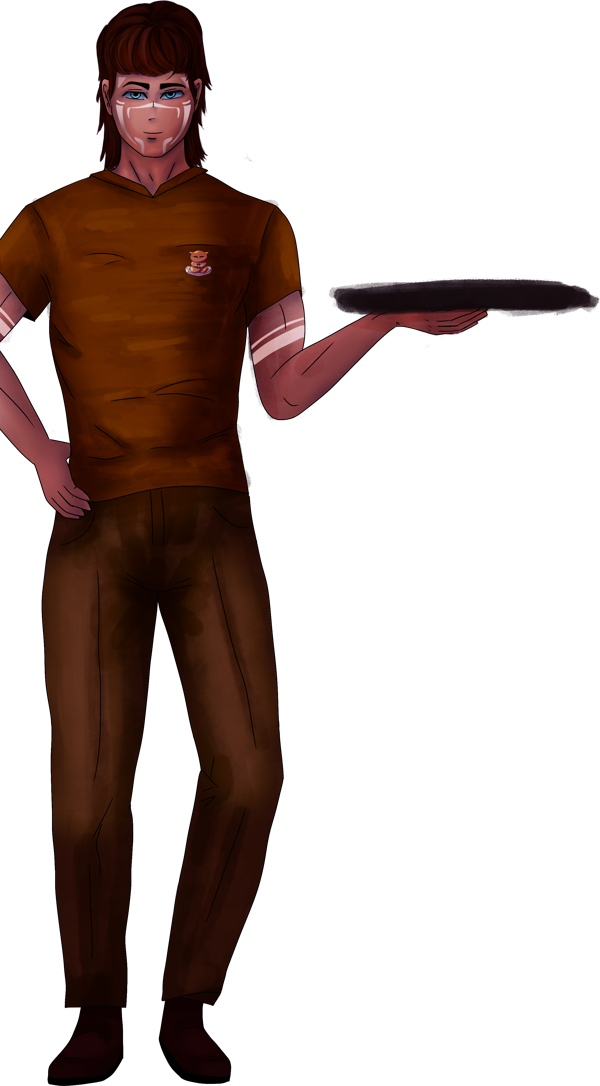
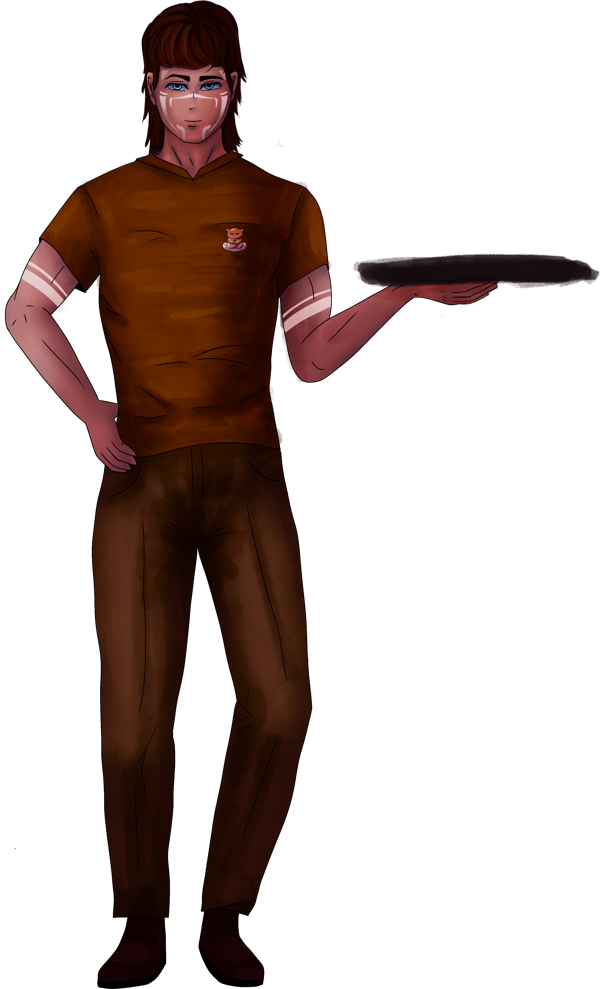
Use the user's clean manual crop for the player VN portrait
Characteronly.png is a fresh, properly-cropped source (no chibi, full
arm+tray, tight bounds) the user made directly — processed the same
way as before (tight alpha bbox + downscale) into player_fullbody.png.
Recomputed the portrait box to the new aspect ratio (383x632 instead
of 349x632) so it still fits edge-to-edge with no clipping or slack.

Also finishes the cleanup from last commit: removed the now-unused
bust placeholder (npc_guard_portrait.png) and simplified its generator
script to only produce the full-body version.

Changed region(s): [[0.0, 0.0, 0.72, 1.0], [0.72, 0.273, 0.87, 0.3337]]

diff --git a/Tools/generate_npc_portrait.py b/Tools/generate_npc_portrait.py
@@ -1,74 +1,53 @@
-"""Placeholder bust portrait for the Guard NPC, until real character art exists.
+"""Placeholder full-body portrait for the Guard NPC, until real character art exists.
 Run with: python3 Tools/generate_npc_portrait.py
 """
 from PIL import Image, ImageDraw
 import os
 
 ROOT = os.path.dirname(os.path.dirname(os.path.abspath(__file__)))
-OUT = os.path.join(ROOT, "Assets", "Portraits", "npc_guard_portrait.png")
-
-def build(w, h, full_body):
-    img = Image.new("RGBA", (w, h), (0, 0, 0, 0))
-    d = ImageDraw.Draw(img)
-    scale = w / 500.0
-
-    def sx(v):
-        return v * scale
-
-    def sy(v):
-        return v * scale
-
-    # Helmet dome
-    d.ellipse([sx(120), sy(40), sx(380), sy(300)], fill=(150, 140, 125, 255), outline=(70, 62, 52, 255), width=max(2, int(6 * scale)))
-
-    # Visor
-    d.rounded_rectangle([sx(150), sy(140), sx(350), sy(200)], radius=sx(18), fill=(30, 20, 18, 255))
-    d.rounded_rectangle([sx(160), sy(148), sx(340), sy(180)], radius=sx(12), fill=(200, 90, 40, 230))
-    d.rectangle([sx(165), sy(158), sx(335), sy(170)], fill=(255, 150, 80, 255))
-
-    # Helmet side vents
-    d.rounded_rectangle([sx(120), sy(170), sx(150), sy(230)], radius=sx(8), fill=(90, 82, 70, 255))
-    d.rounded_rectangle([sx(350), sy(170), sx(380), sy(230)], radius=sx(8), fill=(90, 82, 70, 255))
-
-    # Neck — bridges the helmet base straight down, no gap
-    d.rectangle([sx(205), sy(260), sx(295), sy(360)], fill=(120, 100, 80, 255))
-
-    if not full_body:
-        d.rounded_rectangle([sx(50), sy(330), sx(450), sy(h / scale)], radius=sx(30), fill=(58, 52, 46, 255))
-        d.rounded_rectangle([sx(50), sy(330), sx(450), sy(380)], radius=sx(20), fill=(78, 70, 60, 255))
-        d.rounded_rectangle([sx(225), sy(420), sx(275), sy(460)], radius=sx(6), fill=(200, 90, 40, 255))
-        img.save(OUT)
-        print("saved", OUT, img.size)
-        return
-
-    # --- Full body below the shoulders ---
-    # Arms hanging at the sides
-    d.rounded_rectangle([sx(30), sy(340), sx(95), sy(620)], radius=sx(20), fill=(70, 62, 52, 255))
-    d.rounded_rectangle([sx(405), sy(340), sx(470), sy(620)], radius=sx(20), fill=(70, 62, 52, 255))
-    d.rounded_rectangle([sx(35), sy(590), sx(90), sy(640)], radius=sx(14), fill=(120, 100, 80, 255))
-    d.rounded_rectangle([sx(410), sy(590), sx(465), sy(640)], radius=sx(14), fill=(120, 100, 80, 255))
-
-    # Torso / jacket
-    d.rounded_rectangle([sx(100), sy(330), sx(400), sy(660)], radius=sx(30), fill=(58, 52, 46, 255))
-    d.rounded_rectangle([sx(100), sy(330), sx(400), sy(380)], radius=sx(20), fill=(78, 70, 60, 255))
-    d.rounded_rectangle([sx(225), sy(470), sx(275), sy(510)], radius=sx(6), fill=(200, 90, 40, 255))
-
-    # Belt
-    d.rectangle([sx(100), sy(640), sx(400), sy(670)], fill=(40, 34, 28, 255))
-    d.rectangle([sx(225), sy(645), sx(275), sy(665)], fill=(200, 90, 40, 255))
-
-    # Legs
-    d.rounded_rectangle([sx(130), sy(660), sx(240), sy(940)], radius=sx(10), fill=(46, 42, 38, 255))
-    d.rounded_rectangle([sx(260), sy(660), sx(370), sy(940)], radius=sx(10), fill=(46, 42, 38, 255))
-
-    # Boots
-    d.rounded_rectangle([sx(120), sy(920), sx(245), sy(985)], radius=sx(10), fill=(30, 26, 22, 255))
-    d.rounded_rectangle([sx(255), sy(920), sx(380), sy(985)], radius=sx(10), fill=(30, 26, 22, 255))
-
-    img.save(OUT)
-    print("saved", OUT, img.size)
-
-
-build(500, 620, full_body=False)
 OUT = os.path.join(ROOT, "Assets", "Portraits", "npc_guard_fullbody.png")
-build(500, 1000, full_body=True)
+
+W, H = 500, 1000
+img = Image.new("RGBA", (W, H), (0, 0, 0, 0))
+d = ImageDraw.Draw(img)
+
+# Helmet dome
+d.ellipse([120, 40, 380, 300], fill=(150, 140, 125, 255), outline=(70, 62, 52, 255), width=6)
+
+# Visor
+d.rounded_rectangle([150, 140, 350, 200], radius=18, fill=(30, 20, 18, 255))
+d.rounded_rectangle([160, 148, 340, 180], radius=12, fill=(200, 90, 40, 230))
+d.rectangle([165, 158, 335, 170], fill=(255, 150, 80, 255))
+
+# Helmet side vents
+d.rounded_rectangle([120, 170, 150, 230], radius=8, fill=(90, 82, 70, 255))
+d.rounded_rectangle([350, 170, 380, 230], radius=8, fill=(90, 82, 70, 255))
+
+# Neck — bridges the helmet base straight down, no gap
+d.rectangle([205, 260, 295, 360], fill=(120, 100, 80, 255))
+
+# Arms hanging at the sides
+d.rounded_rectangle([30, 340, 95, 620], radius=20, fill=(70, 62, 52, 255))
+d.rounded_rectangle([405, 340, 470, 620], radius=20, fill=(70, 62, 52, 255))
+d.rounded_rectangle([35, 590, 90, 640], radius=14, fill=(120, 100, 80, 255))
+d.rounded_rectangle([410, 590, 465, 640], radius=14, fill=(120, 100, 80, 255))
+
+# Torso / jacket
+d.rounded_rectangle([100, 330, 400, 660], radius=30, fill=(58, 52, 46, 255))
+d.rounded_rectangle([100, 330, 400, 380], radius=20, fill=(78, 70, 60, 255))
+d.rounded_rectangle([225, 470, 275, 510], radius=6, fill=(200, 90, 40, 255))
+
+# Belt
+d.rectangle([100, 640, 400, 670], fill=(40, 34, 28, 255))
+d.rectangle([225, 645, 275, 665], fill=(200, 90, 40, 255))
+
+# Legs
+d.rounded_rectangle([130, 660, 240, 940], radius=10, fill=(46, 42, 38, 255))
+d.rounded_rectangle([260, 660, 370, 940], radius=10, fill=(46, 42, 38, 255))
+
+# Boots
+d.rounded_rectangle([120, 920, 245, 985], radius=10, fill=(30, 26, 22, 255))
+d.rounded_rectangle([255, 920, 380, 985], radius=10, fill=(30, 26, 22, 255))
+
+img.save(OUT)
+print("saved", OUT, img.size)
